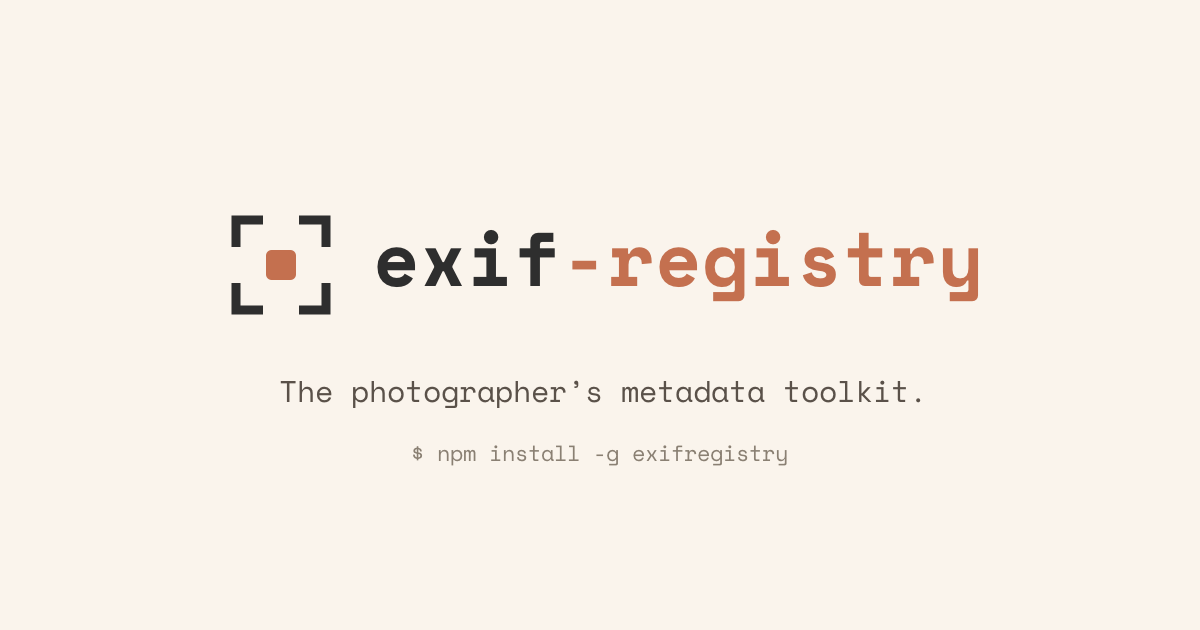
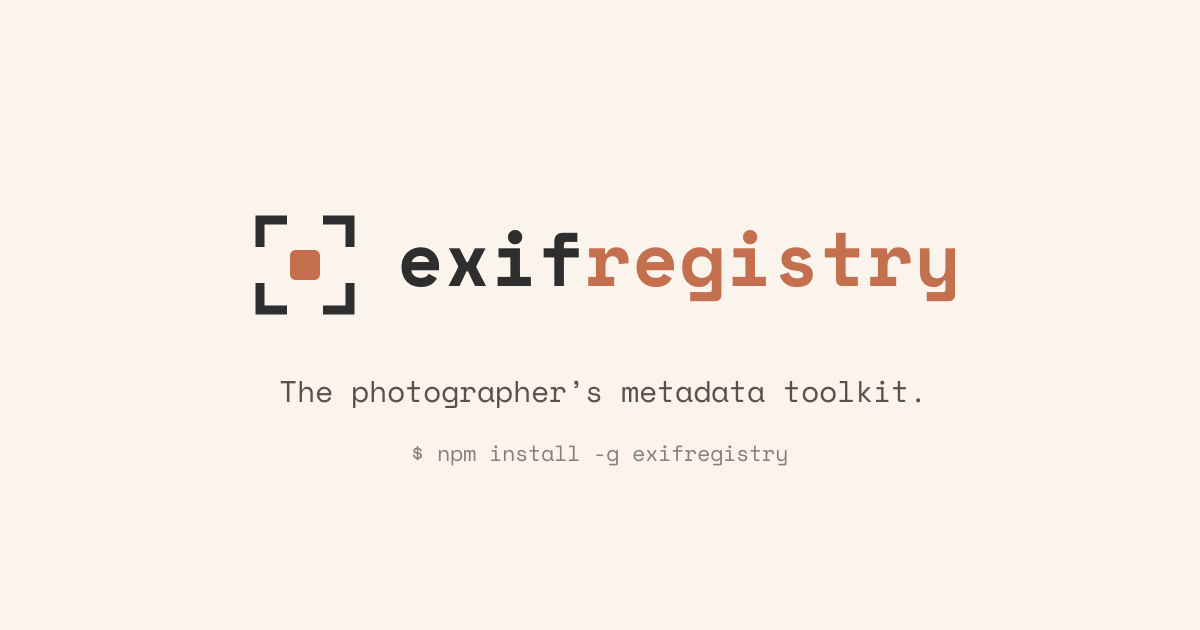
Remove hyphen from wordmark everywhere: site, brand SVGs (renamed), og.png

Changed region(s): [[0.3083, 0.3619, 0.8325, 0.4825], [0.185, 0.3317, 0.3083, 0.5127]]

diff --git a/public/index.html b/public/index.html
@@ -66,7 +66,7 @@
     <nav style="max-width:1120px;margin:0 auto;padding:14px 24px;display:flex;align-items:center;gap:22px">
       <a href="#top" style="display:flex;align-items:center;gap:10px;color:var(--fg);flex-shrink:0;white-space:nowrap">
         <svg viewBox="0 0 32 32" width="26" height="26" aria-hidden="true"><g fill="none" stroke="currentColor" stroke-width="2.6" stroke-linecap="square"><path d="M4 10V4H10"></path><path d="M22 4H28V10"></path><path d="M28 22V28H22"></path><path d="M10 28H4V22"></path></g><rect x="12" y="12" width="8" height="8" rx="1.5" fill="var(--accent)"></rect></svg>
-        <span style="font-family:'Space Mono',ui-monospace,monospace;font-weight:700;font-size:17px;letter-spacing:-.02em">exif-registry</span>
+        <span style="font-family:'Space Mono',ui-monospace,monospace;font-weight:700;font-size:17px;letter-spacing:-.02em">exifregistry</span>
       </a>
       <div style="flex:1"></div>
       <a href="#pillars" style="font-size:14px;color:var(--fg-2)">Features</a>
@@ -84,7 +84,7 @@
       <div style="display:inline-flex;align-items:center;gap:8px;font-family:'Space Mono',monospace;font-size:12.5px;color:var(--fg-muted);border:1px solid var(--border-strong);border-radius:999px;padding:5px 12px;margin-bottom:24px">
         <span style="color:var(--accent)">$</span> npm · MIT · zero setup
       </div>
-      <h1 style="font-family:'Space Mono',monospace;font-weight:700;font-size:clamp(38px,5.4vw,60px);line-height:1.02;letter-spacing:-.035em;margin:0 0 20px">exif<span style="color:var(--accent)">-registry</span></h1>
+      <h1 style="font-family:'Space Mono',monospace;font-weight:700;font-size:clamp(38px,5.4vw,60px);line-height:1.02;letter-spacing:-.035em;margin:0 0 20px">exif<span style="color:var(--accent)">registry</span></h1>
       <p style="font-size:clamp(19px,2.4vw,23px);color:var(--fg);font-weight:500;margin:0 0 12px;max-width:30ch">The photographer's metadata toolkit.</p>
       <p style="font-size:16.5px;color:var(--fg-2);margin:0 0 30px;max-width:46ch">Inspect, fix, organize and publish your photos from the terminal — without ever touching a pixel or losing an original.</p>
 
@@ -274,17 +274,17 @@
     <!-- logo lockups -->
     <div style="display:grid;grid-template-columns:repeat(3,1fr);gap:16px;margin-bottom:40px">
       <div style="border:1px solid var(--border);border-radius:14px;background:var(--surface);padding:34px;display:flex;flex-direction:column;align-items:center;justify-content:center;gap:22px;min-height:150px">
-        <svg viewBox="0 0 32 32" width="52" height="52" aria-label="exif-registry symbol"><g fill="none" stroke="currentColor" stroke-width="2.4" stroke-linecap="square"><path d="M4 10V4H10"></path><path d="M22 4H28V10"></path><path d="M28 22V28H22"></path><path d="M10 28H4V22"></path></g><rect x="12" y="12" width="8" height="8" rx="1.5" fill="var(--accent)"></rect></svg>
+        <svg viewBox="0 0 32 32" width="52" height="52" aria-label="exifregistry symbol"><g fill="none" stroke="currentColor" stroke-width="2.4" stroke-linecap="square"><path d="M4 10V4H10"></path><path d="M22 4H28V10"></path><path d="M28 22V28H22"></path><path d="M10 28H4V22"></path></g><rect x="12" y="12" width="8" height="8" rx="1.5" fill="var(--accent)"></rect></svg>
         <span style="font-family:'Space Mono',monospace;font-size:11px;color:var(--fg-muted);letter-spacing:.1em">SYMBOL</span>
       </div>
       <div style="border:1px solid var(--border);border-radius:14px;background:var(--surface);padding:34px;display:flex;flex-direction:column;align-items:center;justify-content:center;gap:22px;min-height:150px">
-        <span style="font-family:'Space Mono',monospace;font-weight:700;font-size:30px;letter-spacing:-.03em">exif<span style="color:var(--accent)">-registry</span></span>
+        <span style="font-family:'Space Mono',monospace;font-weight:700;font-size:30px;letter-spacing:-.03em">exif<span style="color:var(--accent)">registry</span></span>
         <span style="font-family:'Space Mono',monospace;font-size:11px;color:var(--fg-muted);letter-spacing:.1em">WORDMARK</span>
       </div>
       <div style="border:1px solid var(--border);border-radius:14px;background:var(--surface);padding:34px;display:flex;flex-direction:column;align-items:center;justify-content:center;gap:22px;min-height:150px">
         <div style="display:flex;align-items:center;gap:12px">
           <svg viewBox="0 0 32 32" width="34" height="34" aria-hidden="true"><g fill="none" stroke="currentColor" stroke-width="2.6" stroke-linecap="square"><path d="M4 10V4H10"></path><path d="M22 4H28V10"></path><path d="M28 22V28H22"></path><path d="M10 28H4V22"></path></g><rect x="12" y="12" width="8" height="8" rx="1.5" fill="var(--accent)"></rect></svg>
-          <span style="font-family:'Space Mono',monospace;font-weight:700;font-size:26px;letter-spacing:-.03em">exif<span style="color:var(--accent)">-registry</span></span>
+          <span style="font-family:'Space Mono',monospace;font-weight:700;font-size:26px;letter-spacing:-.03em">exif<span style="color:var(--accent)">registry</span></span>
         </div>
         <span style="font-family:'Space Mono',monospace;font-size:11px;color:var(--fg-muted);letter-spacing:.1em">HORIZONTAL LOCKUP</span>
       </div>
@@ -331,7 +331,7 @@
     <div style="max-width:1120px;margin:0 auto;padding:44px 24px;display:flex;flex-wrap:wrap;gap:28px;align-items:center;justify-content:space-between">
       <div style="display:flex;align-items:center;gap:11px">
         <svg viewBox="0 0 32 32" width="24" height="24" aria-hidden="true"><g fill="none" stroke="currentColor" stroke-width="2.6" stroke-linecap="square"><path d="M4 10V4H10"></path><path d="M22 4H28V10"></path><path d="M28 22V28H22"></path><path d="M10 28H4V22"></path></g><rect x="12" y="12" width="8" height="8" rx="1.5" fill="var(--accent)"></rect></svg>
-        <span style="font-family:'Space Mono',monospace;font-weight:700;font-size:15px">exif<span style="color:var(--accent)">-registry</span></span>
+        <span style="font-family:'Space Mono',monospace;font-weight:700;font-size:15px">exif<span style="color:var(--accent)">registry</span></span>
       </div>
       <div style="display:flex;gap:22px;font-size:13.5px;color:var(--fg-2);flex-wrap:wrap">
         <a href="https://github.com/daviarndt/exifregistry">GitHub</a>

diff --git a/brand-kit/README.md b/brand-kit/README.md
@@ -1,21 +1,21 @@
-# exif-registry — Brand Kit
+# exifregistry — Brand Kit
 
-The complete visual identity and marketing site for **exif-registry**, the photographer's
+The complete visual identity and marketing site for **exifregistry**, the photographer's
 metadata CLI (command: `exifreg`). All values are derived from the product's own
 `exifreg frame --colors` palette.
 
 ## Contents
-- `website/exif-registry.html` — the one-page site, fully self-contained (inline CSS/JS,
+- `website/exifregistry.html` — the one-page site, fully self-contained (inline CSS/JS,
   fonts embedded). Works offline, light + dark theme, responsive.
 - `logo/` — logo assets as SVG (symbol, wordmark, horizontal lockup) in color, mono,
-  and white variants, plus `exif-registry-favicon.svg`.
-- `source/exif-registry.dc.html` — editable source component.
+  and white variants, plus `exifregistry-favicon.svg`.
+- `source/exifregistry.dc.html` — editable source component.
 
 ## Logo
 Viewfinder corner-brackets framing a terracotta matted-photo square — CLI-native,
 reads as a camera focus point / framed subject. Monochrome-safe
-(`exif-registry-symbol-mono.svg` uses `currentColor`) and legible down to 16px
-(`exif-registry-favicon.svg`).
+(`exifregistry-symbol-mono.svg` uses `currentColor`) and legible down to 16px
+(`exifregistry-favicon.svg`).
 
 ## Typography
 - **Space Mono** (700 / 400) — display, headings, code, EXIF captions. The brand voice.
@@ -40,8 +40,8 @@ dusty-pink `#D8A7A7` · sand `#E7D8C9` · espresso `#3B2C26` · ivory `#FFFFF0`
 
 ## Install
 ```
-npm install -g exif-registry
+npm install -g exifregistry
 ```
 
 ## License
-Site & assets for exif-registry (MIT). Powered by ExifTool & libvips.
+Site & assets for exifregistry (MIT). Powered by ExifTool & libvips.